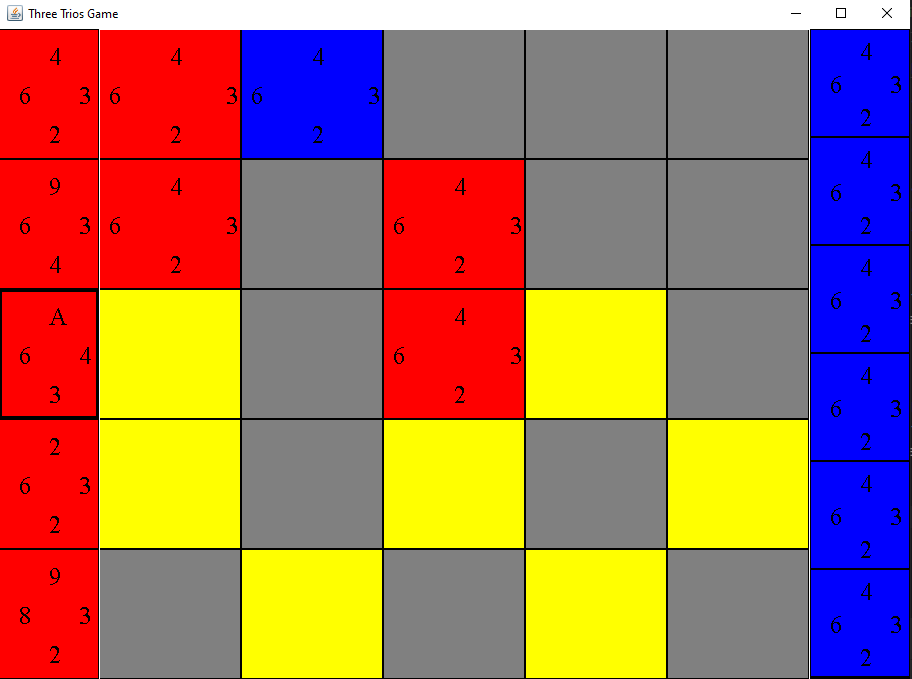
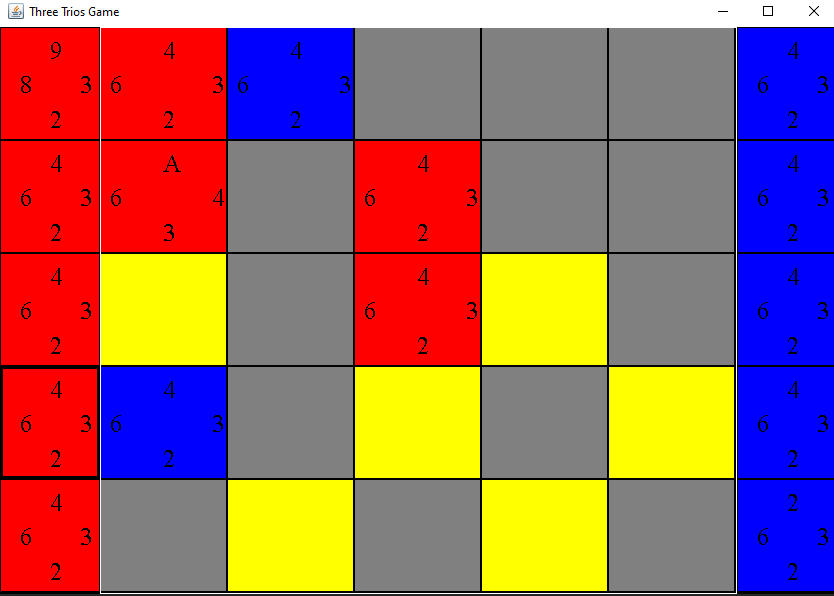
red selected updated

diff --git a/src/cs3500/threetrios/TestMain.java b/src/cs3500/threetrios/TestMain.java
@@ -42,10 +42,12 @@ public class TestMain {
     newGame.battle();
     newGame.playToGrid(0, 2, 2);
     newGame.battle();
+    newGame.playToGrid(0, 3, 0);
+    newGame.battle();
     ThreeTriosGraphicsView view =
         new ThreeTriosGraphicsView(new ReadOnlyThreeTriosGameModel(newGame));
     List<ThreeTriosCard> hand = new ArrayList<>();
-    view.setSelected(CardColor.BLUE, 3);
+    view.setSelected(CardColor.RED, 3);
     view.makeVisible();
 
   }
